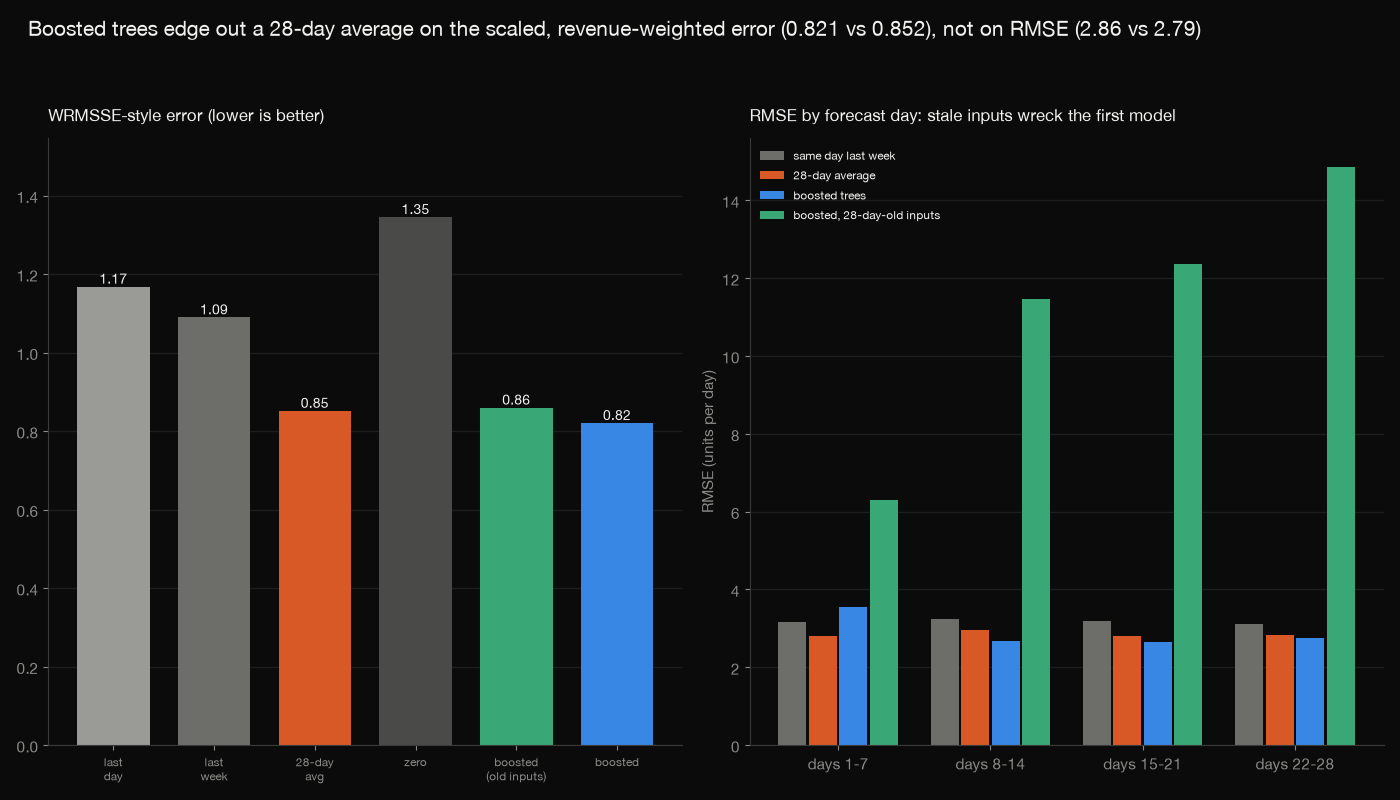
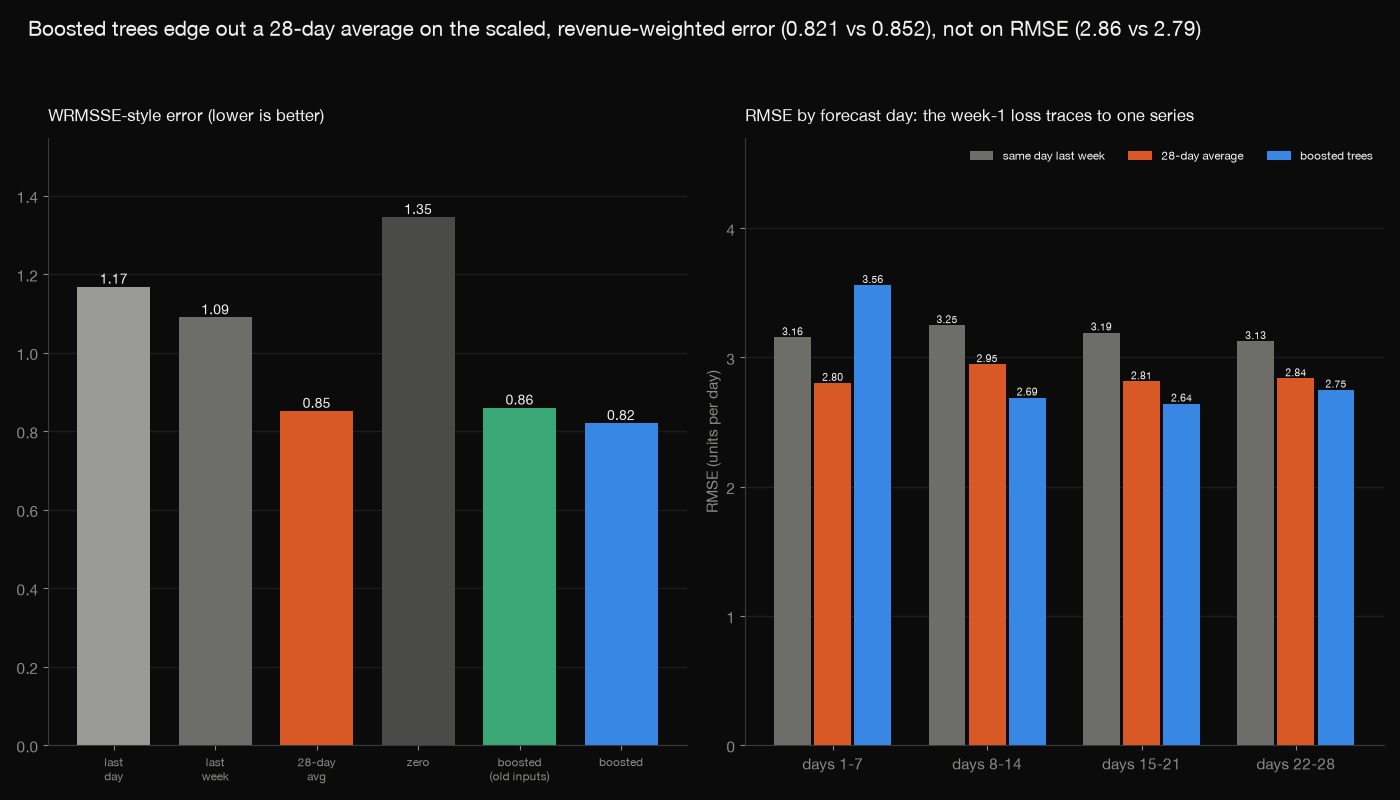
Worst-case tables, ablation caveats, docstrings; check.py now recounts 443 numbers
Claude-Session: https://claude.ai/code/session_01SV2nemqC7c4ws458aVc4yc

diff --git a/concentration.py b/concentration.py
@@ -4,6 +4,8 @@
 
 For every method: the 15,000 series-origins (3,000 series x 5 origins) are ranked by their sum of squared errors over the 28 days; the table gives
 the share of the total squared error held by the worst 20 (0.13% of them) and the RMSE before / after dropping each method's own worst 20.
+Also results/worst_case.csv (each method's single worst series-origin, its largest forecast and the series' largest sale before the origin) and
+results/without_worst_case.csv (pooled RMSE and RMSE by forecast days, with and without the boosted model's single worst series-origin, removed for all methods).
 """
 import csv
 import gzip
@@ -15,6 +17,7 @@ import pandas as pd
 HERE = Path(__file__).parent
 ORIGINS = [1801, 1829, 1857, 1885, 1913]
 H = 28
+BANDS = [(1, 7), (8, 14), (15, 21), (22, 28)]
 METHODS = ["naive", "seasonal_naive_7", "moving_avg_28", "zero", "hgb", "hgb_gap28"]
 
 
@@ -24,6 +27,12 @@ def main():
     ids = sorted(p["id"].unique())
     Y = w.loc[ids, [f"d_{i}" for i in range(1, 1942)]].to_numpy(dtype=np.float64)
     sse = {m: [] for m in METHODS}
+    band = {m: {b: [] for b in BANDS} for m in METHODS}
+    fmax = {m: [] for m in METHODS}
+    hmax = []
+    mb, ma = [], []
+    fmean = {m: [] for m in METHODS}
+    keys = []
     for d in ORIGINS:
         act = Y[:, d:d + H]
         hist = Y[:, :d]
@@ -31,8 +40,18 @@ def main():
         pr = {"naive": np.repeat(hist[:, -1:], H, axis=1), "moving_avg_28": np.repeat(hist[:, -28:].mean(axis=1, keepdims=True), H, axis=1), "zero": np.zeros_like(act),
               "seasonal_naive_7": np.stack([hist[:, d + h - 1 - 7 * int(np.ceil(h / 7))] for h in range(1, H + 1)], axis=1),
               "hgb": q["hgb"].to_numpy().reshape(len(ids), H), "hgb_gap28": q["hgb_gap28"].to_numpy().reshape(len(ids), H)}
+        keys += [(d, i) for i in ids]
+        hmax.append(hist.max(axis=1))
+        mb.append(hist[:, -28:].mean(axis=1))
+        ma.append(act.mean(axis=1))
         for m in METHODS:
-            sse[m].append(((pr[m] - act) ** 2).sum(axis=1))
+            e2 = (pr[m] - act) ** 2
+            sse[m].append(e2.sum(axis=1))
+            fmax[m].append(pr[m].max(axis=1))
+            fmean[m].append(pr[m].mean(axis=1))
+            for b in BANDS:
+                band[m][b].append(e2[:, b[0] - 1:b[1]].sum(axis=1))
+    hmax, mb, ma = np.concatenate(hmax), np.concatenate(mb), np.concatenate(ma)
     with open(HERE / "results" / "concentration.csv", "w", newline="") as f:
         wr = csv.writer(f)
         wr.writerow(["method", "series_origins", "share_sse_worst20", "rmse_all", "rmse_without_worst20"])
@@ -40,7 +59,24 @@ def main():
             s = np.sort(np.concatenate(sse[m]))
             n = len(s)
             wr.writerow([m, n, f"{s[-20:].sum() / s.sum():.10g}", f"{np.sqrt(s.sum() / (n * H)):.10g}", f"{np.sqrt(s[:-20].sum() / ((n - 20) * H)):.10g}"])
-    print(open(HERE / "results" / "concentration.csv").read())
+    with open(HERE / "results" / "worst_case.csv", "w", newline="") as f:
+        wr = csv.writer(f)
+        wr.writerow(["method", "id", "origin", "share_of_method_sse", "max_forecast", "max_sale_before_origin", "mean_sales_28d_before", "mean_actual", "mean_forecast"])
+        for m in METHODS:
+            s = np.concatenate(sse[m]); k = int(np.argmax(s))
+            wr.writerow([m, keys[k][1], keys[k][0], f"{s[k] / s.sum():.10g}", f"{np.concatenate(fmax[m])[k]:.10g}", f"{hmax[k]:.10g}", f"{mb[k]:.10g}", f"{ma[k]:.10g}", f"{np.concatenate(fmean[m])[k]:.10g}"])
+    kh = int(np.argmax(np.concatenate(sse["hgb"])))                  # the boosted model's worst series-origin, removed for every method below
+    with open(HERE / "results" / "without_worst_case.csv", "w", newline="") as f:
+        wr = csv.writer(f)
+        wr.writerow(["scope", "method", "rmse_all", "rmse_without_case"])
+        for scope in ["pooled"] + [f"{a}-{b}" for a, b in BANDS]:
+            for m in METHODS:
+                arrs = [np.concatenate(band[m][b]) for b in BANDS] if scope == "pooled" else [np.concatenate(band[m][tuple(int(x) for x in scope.split("-"))])]
+                days = 28 if scope == "pooled" else int(scope.split("-")[1]) - int(scope.split("-")[0]) + 1
+                tot = sum(a.sum() for a in arrs); n = len(arrs[0])
+                rest = sum(a.sum() - a[kh] for a in arrs)
+                wr.writerow([scope, m, f"{np.sqrt(tot / (n * days)):.10g}", f"{np.sqrt(rest / ((n - 1) * days)):.10g}"])
+    print(open(HERE / "results" / "worst_case.csv").read()); print(open(HERE / "results" / "without_worst_case.csv").read())
 
 
 if __name__ == "__main__":

diff --git a/check.py b/check.py
@@ -4,7 +4,7 @@
 
 Streams the raw M5 CSVs: re-derives the 300-item sample from md5(item_id), the full-vs-sample audit over all 30,490 series, the four benchmark
 forecasts and their scores, the scale/weights of the WRMSSE-style metric, the intermittency and horizon tables, and re-scores the stored
-gradient-boosting predictions (both models) (results/predictions.csv.gz) against the raw sales. What it can NOT recompute: the gradient-boosting fit itself and the
+gradient-boosting predictions (both models), and recounts the worst-case tables (results/predictions.csv.gz) against the raw sales. What it can NOT recompute: the gradient-boosting fit itself and the
 permutation importances (library fits, disclosed); for those it checks the stored predictions are complete and non-negative and that the importance
 table lists exactly the 26 model features.
 """
@@ -115,6 +115,10 @@ def main():
     bins_acc = {}
     hor_acc = {}
     sso = {k: [] for k in METHODS}
+    ssb = {k: {b: [] for b in HORS} for k in METHODS}
+    fmx = {k: [] for k in METHODS}
+    fmn = {k: [] for k in METHODS}
+    skeys, hmx, mbf, maf = [], [], [], []
     for d in ORIGINS:
         wsum, wr = 0.0, {k: 0.0 for k in METHODS}
         sse = {k: 0.0 for k in METHODS}
@@ -131,8 +135,16 @@ def main():
             w = sum(hist[t - 1] * price.get((store, item, wk[t]), 0.0) for t in range(d - 27, d + 1))
             seg2 = hist[max(first, d - 364):]
             bi = next((lab for lo, hi, lab in BINS if lo <= sum(1 for v in seg2 if v == 0) / len(seg2) < hi), None) if seg2 else None
+            skeys.append((d, sid))
+            hmx.append(max(hist))
+            mbf.append(sum(hist[-28:]) / 28.0)
+            maf.append(sum(act) / H)
             for k in METHODS:
                 e = [pr[k][i] - act[i] for i in range(H)]
+                fmx[k].append(max(pr[k]))
+                fmn[k].append(sum(pr[k]) / H)
+                for a, bb in HORS:
+                    ssb[k][(a, bb)].append(sum(v * v for v in e[a - 1:bb]))
                 ss = sum(v * v for v in e)
                 sse[k] += ss
                 sso[k].append(ss)
@@ -182,6 +194,26 @@ def main():
         same(r["share_sse_worst20"], sum(v[-20:]) / sum(v), "share worst 20")
         same(r["rmse_all"], math.sqrt(sum(v) / (n * H)), "pooled rmse")
         same(r["rmse_without_worst20"], math.sqrt(sum(v[:-20]) / ((n - 20) * H)), "rmse without worst 20")
+    for r in read("worst_case.csv"):
+        m = r["method"]
+        v = sso[m]
+        j = max(range(len(v)), key=lambda i: v[i])
+        assert (skeys[j][1], str(skeys[j][0])) == (r["id"], r["origin"]), (m, skeys[j], r["id"], r["origin"])
+        same(r["share_of_method_sse"], v[j] / sum(v), f"worst share {m}")
+        same(r["max_forecast"], fmx[m][j], f"max forecast {m}")
+        same(r["max_sale_before_origin"], hmx[j], "max sale before origin")
+        same(r["mean_sales_28d_before"], mbf[j], "mean sales before")
+        same(r["mean_actual"], maf[j], "mean actual")
+        same(r["mean_forecast"], fmn[m][j], f"mean forecast {m}")
+    kh = max(range(len(sso["hgb"])), key=lambda i: sso["hgb"][i])
+    for r in read("without_worst_case.csv"):
+        m = r["method"]
+        bands = HORS if r["scope"] == "pooled" else [tuple(int(x) for x in r["scope"].split("-"))]
+        days = 28 if r["scope"] == "pooled" else bands[0][1] - bands[0][0] + 1
+        arrs = [ssb[m][b] for b in bands]
+        n = len(arrs[0])
+        same(r["rmse_all"], math.sqrt(sum(sum(a) for a in arrs) / (n * days)), f"rmse {r['scope']} {m}")
+        same(r["rmse_without_case"], math.sqrt(sum(sum(a) - a[kh] for a in arrs) / ((n - 1) * days)), f"rmse without case {r['scope']} {m}")
     imp = read("importance.csv")
     assert sorted(r["feature"] for r in imp) == sorted(FEATS)
     count += 1

diff --git a/features.py b/features.py
@@ -1,20 +1,25 @@
-"""Steps 2-3 (PySpark): audit the full M5 table at scale, then build the long-form feature table for a documented sample of series.
+"""Steps 2-3 (PySpark): audit the full M5 table at scale, then build the long-form task/feature table for a documented sample of series.
 
-    ./venv/bin/python features.py   -> results/full_series_stats.csv (one row per sampling stratum), results/sample_items.csv,
-                                       data/features.parquet (not committed)
+    ./venv/bin/python features.py   -> results/full_vs_sample.csv, results/sample_items.csv,
+                                       data/base.parquet, data/features.parquet (neither committed)
 
 Spark 4 in local[4] mode, driver memory 3g (the machine is shared).
 
 Sampling rule (fixed before looking at any score): rank the 3,049 items by md5(item_id) (hex string, ascending), keep the first 300,
 and keep all 10 stores for each: 3,000 store-item series x 1,941 days = 5.82 M rows. md5 order is arbitrary with respect to department,
-sales volume or intermittency, and anyone can reproduce it. Section "full" below checks the sample against all 30,490 series.
+sales volume or intermittency, and anyone can reproduce it. results/full_vs_sample.csv checks the sample against all 30,490 series
+(share of zero-sales days and units per day, from each series' first sale to d_1913).
 
-Leak-free design. Every forecast is made at an origin day d for the 28 days d+1..d+28. A target day t may therefore only use sales up to day
-t-28 (that is d at the longest horizon), so every sales-derived feature is anchored at t-28: weekly lags 28/35/42 (the 7-day lag pattern
-shifted by the 28-day information gap), rolling means/std of the 28-day-shifted series, the share of selling days, the same-weekday mean
-of 4 weeks, and an expanding series mean (the time-aware "id encoding": the item enters through its own history, never through an ordinal code).
-Calendar, events, SNAP and the shelf price of day t are treated as known in advance (the competition publishes them for the forecast
-window; a retailer plans them). Missing values (history not long enough) stay null.
+Leak-free design. A forecast is made at an origin o for the target days t = o+1..o+28 (horizon h = t-o). data/features.parquet has one row per
+(series, target day t, origin o):
+  - training rows (origin = 0): every t >= 1071 with h = t mod 28 + 1, so each horizon appears equally often and o = t-h < t;
+  - validation rows (origin = d): for each evaluation origin d in 1801, 1829, 1857, 1885, 1913, t = d+1..d+28, o = d.
+Main model ("hgb"): every sales feature is anchored at the origin o (sales on day o, means over 7/28/91 days ending at o, standard deviation and
+share of selling days over 28, an expanding mean, days since the last sale, the same-weekday sales 1-3 weeks back that are <= o) plus the horizon h.
+Ablation ("hgb_gap28", the first design): features anchored at t-28 (weekly lags 28/35/42, 7/28/91-day means ending at t-28, ...), which are legal
+for any horizon up to 28 but 28 days old at the longest. Calendar, events, SNAP and the shelf price of day t (and its changes) are treated as known in
+advance (the competition publishes them for the forecast window; a retailer plans them). The item enters only through its own history (expanding mean),
+never through an ordinal code. Missing values (history not long enough) stay null.
 """
 import hashlib
 import json

diff --git a/charts.py b/charts.py
@@ -40,13 +40,19 @@ def bars(ax, col, title, fs=8.5, fmt="{:.2f}"):
     ax.set_title(title, fontsize=12); ax.grid(axis="x", visible=False); ax.set_ylim(0, max(v) * 1.15)
 
 
-def horizon(ax, methods=("seasonal_naive_7", "moving_avg_28", "hgb", "hgb_gap28")):
-    hs = ["1-7", "8-14", "15-21", "22-28"]; x = np.arange(4); w = 0.2
+WC = pd.read_csv(R / "without_worst_case.csv")
+WORST = pd.read_csv(R / "worst_case.csv").set_index("method").loc["hgb"]
+
+
+def horizon(ax, without=False, methods=("seasonal_naive_7", "moving_avg_28", "hgb")):
+    hs = ["1-7", "8-14", "15-21", "22-28"]; x = np.arange(4); w = 0.26
     for i, m in enumerate(methods):
-        v = [HZ[(HZ.horizon == h) & (HZ.method == m)].rmse.iloc[0] for h in hs]
-        ax.bar(x + (i - 1.5) * w, v, width=w * 0.92, color=COL[m], label=NAME[m])
-    ax.set_xticks(x); ax.set_xticklabels([f"days {h}" for h in hs]); ax.set_ylabel("RMSE (units per day)"); ax.grid(axis="x", visible=False)
-    ax.legend(frameon=False, labelcolor=INK, fontsize=8.5, loc="upper left")
+        v = [WC[(WC.scope == h) & (WC.method == m)].rmse_without_case.iloc[0] for h in hs] if without else [HZ[(HZ.horizon == h) & (HZ.method == m)].rmse.iloc[0] for h in hs]
+        ax.bar(x + (i - 1) * w, v, width=w * 0.92, color=COL[m], label=NAME[m])
+        for xi, vi in zip(x + (i - 1) * w, v):
+            ax.text(xi, vi, f"{vi:.2f}", ha="center", va="bottom", fontsize=7.5, color=INK)
+    ax.set_xticks(x); ax.set_xticklabels([f"days {h}" for h in hs]); ax.set_ylabel("RMSE (units per day)"); ax.grid(axis="x", visible=False); ax.set_ylim(0, 4.7)
+    ax.legend(frameon=False, labelcolor=INK, fontsize=8.5, loc="upper right", ncol=3)
 
 
 def intermittency(axes):
@@ -65,7 +71,7 @@ def cover():
     a, h = OV.loc["hgb"], OV.loc["moving_avg_28"]
     fig.suptitle(f"Boosted trees edge out a 28-day average on the scaled, revenue-weighted error ({a.wrmsse:.3f} vs {h.wrmsse:.3f}), not on RMSE ({a.rmse:.2f} vs {h.rmse:.2f})", fontsize=15, x=0.02, ha="left", y=0.98)
     bars(axes[0], "wrmsse", "WRMSSE-style error (lower is better)", fs=10)
-    horizon(axes[1]); axes[1].set_title("RMSE by forecast day: stale inputs wreck the first model", fontsize=12)
+    horizon(axes[1]); axes[1].set_title("RMSE by forecast day: the week-1 loss traces to one series", fontsize=12)
     fig.tight_layout(rect=(0, 0, 1, 0.94)); fig.savefig(HERE / "charts" / "00_cover.png", dpi=100); plt.close(fig)
 
 
@@ -84,7 +90,9 @@ def main():
     ax.set_xticks(range(5)); ax.set_xticklabels([f"d_{o}" + ("\n(M5 validation window)" if o == 1913 else "") for o in sorted(BO.origin.unique())], fontsize=9)
     ax.set_ylabel("WRMSSE-style error"); ax.set_ylim(0.7, 1.3); ax.set_xlabel("forecast origin (28 days ahead of each)"); ax.legend(frameon=False, labelcolor=INK, fontsize=9, ncol=2, loc="upper right")
     save(fig, "02_origins.png")
-    fig, ax = plt.subplots(figsize=(10, 3.8)); horizon(ax); save(fig, "03_horizon.png")
+    fig, axes = plt.subplots(1, 2, figsize=(10, 4.0)); horizon(axes[0]); horizon(axes[1], without=True)
+    axes[0].set_title("All 15,000 series-origins", fontsize=12); axes[1].set_title(f"Without {WORST.id.replace('_evaluation', '')} at d_{WORST.origin}", fontsize=12)
+    save(fig, "03_horizon.png")
     fig, axes = plt.subplots(1, 2, figsize=(10, 4.1)); intermittency(axes); save(fig, "04_intermittency.png")
     fig, ax = plt.subplots(figsize=(10, 4.2))
     t = IM.head(12).iloc[::-1]

diff --git a/analyze.py b/analyze.py
@@ -1,4 +1,4 @@
-"""Steps 4-6: time-aware evaluation of four benchmarks and a gradient-boosted model on the Spark-built features.
+"""Steps 4-6: time-aware evaluation of four benchmarks and two gradient-boosted models (fresh and 28-day-old inputs) on the Spark-built features.
 
     ./venv/bin/python analyze.py   (after features.py)  -> results/*.csv, results/predictions.csv.gz
 
@@ -7,11 +7,12 @@ whose labels are public in sales_train_evaluation.csv, so it is NOT the hidden t
 days <= d and forecasts days d+1..d+28. No random splits anywhere; no hyper-parameter was tuned (one fixed setting, below).
 Methods: naive (last day repeated), seasonal naive 7 (last week repeated), moving average (mean of the last 28 days), zero (always 0; a reference that
 shows how MAE rewards the median on intermittent series), and HistGradientBoosting (sklearn, Poisson loss, 300 iterations, learning rate 0.1,
-63 leaves, min 200 rows per leaf) trained per origin on the target days d-729..d only, using the features from features.py.
+63 leaves, min 200 rows per leaf) trained per origin on the target days d-729..d only, using the features from features.py, twice: "hgb" with inputs anchored at the forecast origin plus the horizon h
+(the main model), and "hgb_gap28" with only inputs anchored 28 days before the target (the first design, kept as an ablation).
 Scores: RMSE and MAE pooled over all series-days; bottom-level WRMSSE-style = sum_i w_i * RMSSE_i / sum_i w_i with RMSSE_i = sqrt(mean_h (y-yhat)^2 / s_i),
 s_i = mean of squared one-day differences from the series' first sale to d, w_i = revenue (units x shelf price) of the 28 days before d; series with s_i = 0 are dropped.
 This is the M5 metric at its lowest of 12 aggregation levels only, not the official WRMSSE. Intermittency = share of zero-sales days over the 364 days before d
-(or since launch). Feature importance = permutation importance (RMSE increase when one column is shuffled) on the validation windows.
+(or since launch; a series that has not launched yet has no bin). Feature importance (main model only) = permutation importance (RMSE increase when one column is shuffled) on the validation windows.
 """
 import csv
 import gzip

diff --git a/README.md b/README.md
@@ -32,7 +32,7 @@ The M5 Forecasting Accuracy dataset (Makridakis Open Forecasting Center; Walmart
 3. **Spark features.** Window functions per series: weekly lags, rolling means and standard deviation over 7/28/91 days, the share of selling days, days since the last sale, an expanding mean (the time-aware id encoding: an item enters through its own history), shelf price and its changes, calendar, event and SNAP columns, store/state/department/category codes. Every feature of a target day t is anchored at the forecast origin o = t - h (h = 1..28), so nothing after the origin is used; calendar, events, SNAP and the shelf price of day t are treated as known in advance. A second, deliberately stale feature set anchored at t - 28 (weekly lags 28/35/42, rolling statistics of the 28-day-shifted series) is built for comparison.
 4. **Time-aware evaluation.** Five origins d = 1801, 1829, 1857, 1885, 1913 (28 days apart; the last, d_1913, is the M5 validation window d_1914-d_1941). At each origin every method sees only days up to d and forecasts the next 28. Benchmarks: last day repeated, last week repeated, the 28-day mean, and always zero (a reference for how MAE treats intermittent demand). Model: sklearn HistGradientBoosting (Poisson loss, 300 iterations, learning rate 0.1, 63 leaves, 200 rows per leaf; one fixed setting, nothing tuned) trained per origin on the 2,190,000 (series, target day) rows of the previous 730 days, once with the fresh inputs and once with the stale ones.
 5. **Scores.** RMSE and MAE pooled over series and days; a bottom-level WRMSSE-style score (each series' RMSSE scaled by its in-sample one-day-difference error, weighted by its revenue in the last 28 days); results by origin, by forecast day, by intermittency bin; permutation importance; concentration of the error.
-6. **Check.** `check.py` recomputes the sample, the audit, every benchmark forecast, scale, weight and score, and re-scores the stored model forecasts, from the raw CSVs in plain Python (csv, gzip, hashlib, math; no pandas, numpy, sklearn or Spark): 347 numbers, to a relative tolerance of 1e-8.
+6. **Check.** `check.py` recomputes the sample, the audit, every benchmark forecast, scale, weight and score, and re-scores the stored model forecasts, from the raw CSVs in plain Python (csv, gzip, hashlib, math; no pandas, numpy, sklearn or Spark): 443 numbers, to a relative tolerance of 1e-8.
 7. **Charts.**
 
 ## Results
@@ -50,10 +50,10 @@ The M5 Forecasting Accuracy dataset (Makridakis Open Forecasting Center; Walmart
 | Boosted trees | 2.861 | 1.052 | 0.821 |
 
 - **On the scaled, revenue-weighted error the boosted model wins, at every origin.** 0.821 against 0.852 for the 28-day average (3.6% lower; 5 of 5 origins), and 1.090 for last week, 1.168 for the last day. On MAE it is 2.4% lower (1.052 against 1.077; 4 of 5 origins). On RMSE it does not win: 2.861 against 2.785, ahead at 1 of 5 origins.
-- **Its error by forecast day.** RMSE of the boosted model against the 28-day average: days 1-7 3.56 against 2.80; days 8-14 2.69 against 2.95; days 15-21 2.64 against 2.81; days 22-28 2.75 against 2.84.
-- **The first design failed.** With inputs anchored 28 days before the target (the only way to use weekly lags 28/35/42 safely at every horizon) the boosted model scores RMSE 7.72, WRMSSE 0.860 and MAE 1.20: worse than the 28-day average on all three. Its RMSE is dominated by a few forecasts: the worst 20 of 15,000 series-origins hold 96% of its squared error and without them its RMSE is 2.35.
+- **Its error by forecast day.** RMSE of the boosted model against the 28-day average: days 1-7 3.56 against 2.80; days 8-14 2.69 against 2.95; days 15-21 2.64 against 2.81; days 22-28 2.75 against 2.84. **The week-1 loss is one forecast:** FOODS_3_090_CA_3 at d_1801 (a best-seller: its largest sale before the origin is 763 units, its mean over the 28 days before it 1.7 a day, its mean in the forecast window 85.0) was forecast at up to 513 units a day, a mean of 171, and holds 17.9% of the boosted model's total squared error. With that one of 15,000 series-origins removed from every method, days 1-7 are 2.59 against 2.67 and the pooled RMSE 2.66 against 2.75: the boosted model is then ahead on RMSE too. I chose that case because it is the boosted model's worst, so those figures flatter it; the point is how little the "not on RMSE" verdict rests on.
+- **The first design failed, and not only through one forecast.** With inputs anchored 28 days before the target (the only way to use weekly lags 28/35/42 safely at every horizon) the boosted model scores RMSE 7.72, WRMSSE 0.860 and MAE 1.20: worse than the 28-day average on all three. The same series holds 84.7% of its squared error (a forecast of 2362 units a day against a largest sale of 763); without it the pooled RMSE is 4.57, still above the fresh model's 2.66 and the average's 2.75.
 - **Intermittency decides which metric to believe.** 42.5% of the series-origins are zero on 70% or more of the previous 364 days and 25.0% on 50-70%. For those two groups, always forecasting zero has the lowest MAE of all methods (0.329 against 0.420 for the boosted model in the sparsest group; 0.869 against 0.875), while in the sparsest group its RMSE is higher than the average's and the boosted model's (1.02 against 0.81 and 0.78). In the busiest group (under 10% zero days) the boosted RMSE is 5.97 against 5.88 for the average, and MAE 3.50 against 3.62.
-- **RMSE is carried by a few series.** The worst 20 of 15,000 series-origins hold 42% of the 28-day average's squared error and 46% of the boosted model's. Pooled over all origins the RMSE is 2.93 against 2.85; dropping each method's own worst 20 it is 2.15 against 2.18, so the ranking on RMSE flips on 0.13% of the series-origins.
+- **RMSE is carried by a few series.** The worst series-origin of all six methods is the same series, FOODS_3_090_CA_3 (4 of them at d_1801); the worst 20 of 15,000 series-origins hold 42% of the 28-day average's squared error and 46% of the boosted model's. Pooled over all origins the RMSE is 2.93 against 2.85; dropping each method's own worst 20 it is 2.15 against 2.18, so the ranking on RMSE flips on 0.13% of the series-origins.
 - **What the model uses** (permutation importance, RMSE added when a column is shuffled, mean of 5 origins): price 8.08, r_m91 7.29, store_id 4.00, r_m28 1.86, price_rel91 1.78, days_since_sale 1.43. (r_m91 and r_m28: mean sales over the 91 and 28 days before the origin; days_since_sale: days since the last non-zero day; price_rel91: price against its own 91-day mean.) The price level and the store code very probably stand in for the item and its volume, since no item code is given; the importance of correlated inputs is split between them.
 
 ## Not done, and caveats
@@ -63,5 +63,6 @@ The M5 Forecasting Accuracy dataset (Makridakis Open Forecasting Center; Walmart
 - The feature design was changed once after seeing results (the stale-input model came first and lost to the 28-day average). The five origins therefore informed one design choice, and the reported gap is somewhat optimistic; the hyper-parameters were never tuned.
 - Calendar, event, SNAP and shelf-price columns of the target day are used as known in advance; the price is not forecast. That is true in the competition's setting but would have to be planned in practice.
 - The model is sklearn's HistGradientBoosting fitted on one machine to the Spark-built feature table (Spark MLlib's GBTRegressor was not run). `check.py` cannot refit it, so it re-scores the stored forecasts (4 decimals) instead, and the permutation importances are not recounted (it checks only the feature list).
+- No forecast was capped or corrected: the Poisson (log-link) model over-shot the rebound of one stock-out-affected best-seller (above), and capping it after seeing the result would have been a second design change.
 - Intermittency bins use the share of zero days in the 364 days before the origin; one series that launches after an origin has no bin at that origin. No hierarchy reconciliation, no probabilistic forecasts, no stock-out correction (zero sales while out of stock look like zero demand).
 - Nothing from the raw data is committed.
